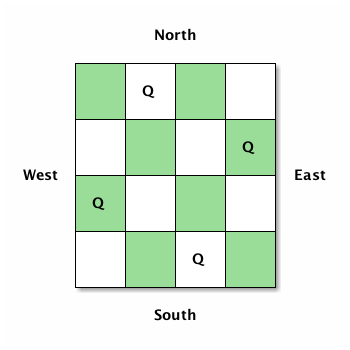
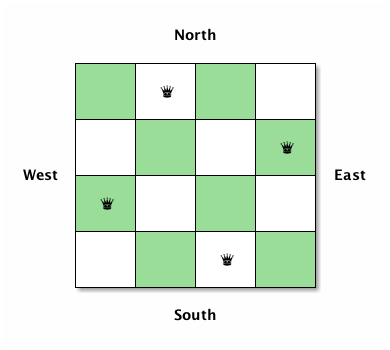
Fixed a couple typos and improved graphis in n-queens post

diff --git a/articles/2017/n-queens.html b/articles/2017/n-queens.html
@@ -1,7 +1,7 @@
 <!DOCTYPE html>
 <html lang="en">
 <head>
-<!-- 2017-06-16 Fri 22:33 -->
+<!-- 2017-06-17 Sat 10:50 -->
 <meta charset="utf-8">
 <meta name="viewport" content="width=device-width, initial-scale=1">
 <title>The N Queens Problem</title>
@@ -107,7 +107,7 @@ for the JavaScript code in this tag.
 <div class="abstract">
 <p>
 Using Clojure to put \(N\) Queens on an \(N \times N\) chess board
-without them being able to threaten eachother.
+without them being able to threaten each other.
 </p>
 
 </div>
@@ -179,7 +179,7 @@ the north end of the west-most column you're done</li>
 </ol>
 
 <p>
-Following the algoritm you might end up with somethnig like this:
+Following the algorithm you might end up with something like this:
 </p>
 
 
@@ -234,11 +234,11 @@ index. Job done!
 
 <p>
 Let's check southwest next. This is a bit more complex. We need to
-walk back from our current column index, decrementing our row index
-and column index at each step, check if the row number at each column
-matches this calculated value. At any point, if the row or column
-becomes less than zero we've reached the end of the board and this is
-a "safe" location: no capture is possible in this direction.
+decrement our row index and column index and check if the row number
+at that column matches the calculated row value. At any point, if the
+row or column becomes less than zero we've reached the end of the
+board and this is a "safe" location: no capture is possible in this
+direction.
 </p>
 
 <div class="org-src-container">
@@ -330,7 +330,7 @@ recursion-based solution well.
 <div id="postamble" class="status">
 <p class="date">Date: 2017-06-14</p>
 <p class="author">Author: Stig Brautaset</p>
-<p class="date">Created: 2017-06-16 Fri 22:33</p>
+<p class="date">Created: 2017-06-17 Sat 10:50</p>
 <p class="validation"><a href="http://validator.w3.org/check?uri=referer">Validate</a></p>
 </div>
 </body>
